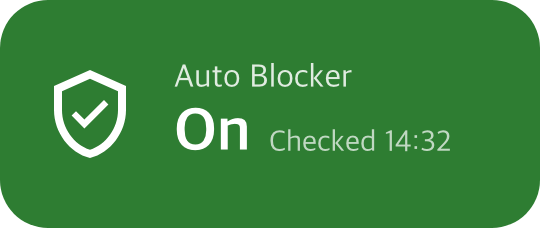
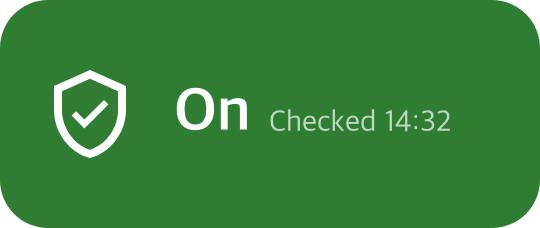
v0.08.05.00: resizable widget without title, color and monochrome styles, widget settings screen

Changed region(s): [[0.3259, 0.2763, 0.6519, 0.6754], [0.5037, 0.4605, 0.8296, 0.6754]]

diff --git a/src/com/gml/autoblocker/AutoBlockerWidget.java b/src/com/gml/autoblocker/AutoBlockerWidget.java
@@ -7,12 +7,17 @@ import android.content.ComponentName;
 import android.content.Context;
 import android.content.Intent;
 import android.content.SharedPreferences;
+import android.os.Build;
+import android.os.Bundle;
+import android.util.ArrayMap;
+import android.util.SizeF;
 import android.view.View;
 import android.widget.RemoteViews;
 
 import java.text.SimpleDateFormat;
 import java.util.Date;
 import java.util.Locale;
+import java.util.Map;
 
 /**
  * 상태는 rampart 설정 화면에서 접근성 서비스가 마지막으로 본 값의 캐시다.
@@ -23,6 +28,11 @@ public class AutoBlockerWidget extends AppWidgetProvider {
     static final String STATE_PREFS = "state";
     static final String LAST_STATE = "lastKnownState";
     static final String LAST_AT = "lastKnownAt";
+    static final String STYLE_PREFS = "widget_style";
+    static final int STYLE_COLOR = 0;
+    static final int STYLE_MONO = 1;
+    /** 이 폭(dp)보다 좁으면 아이콘만 보인다. 2칸 기본 minWidth 와 같다. */
+    private static final float SMALL_MAX_DP = 110f;
 
     static void saveState(Context ctx, boolean on) {
         ctx.getSharedPreferences(STATE_PREFS, Context.MODE_PRIVATE).edit()
@@ -54,9 +64,54 @@ public class AutoBlockerWidget extends AppWidgetProvider {
         if (ids.length > 0) render(ctx, mgr, ids);
     }
 
-    private static void render(Context ctx, AppWidgetManager mgr, int[] ids) {
+    @Override
+    public void onAppWidgetOptionsChanged(Context ctx, AppWidgetManager mgr, int id, Bundle options) {
+        render(ctx, mgr, new int[] { id });
+    }
+
+    /** 위젯을 지우면 그 id 의 스타일 저장값도 지운다. */
+    @Override
+    public void onDeleted(Context ctx, int[] ids) {
+        SharedPreferences.Editor e = ctx.getSharedPreferences(STYLE_PREFS, Context.MODE_PRIVATE).edit();
+        for (int id : ids) e.remove(styleKey(id));
+        e.commit();
+    }
+
+    static String styleKey(int id) {
+        return "style_" + id;
+    }
+
+    /** 저장값이 없으면 STYLE_COLOR. */
+    static int style(Context ctx, int id) {
+        return ctx.getSharedPreferences(STYLE_PREFS, Context.MODE_PRIVATE).getInt(styleKey(id), STYLE_COLOR);
+    }
+
+    static void saveStyle(Context ctx, int id, int style) {
+        ctx.getSharedPreferences(STYLE_PREFS, Context.MODE_PRIVATE).edit().putInt(styleKey(id), style).commit();
+    }
+
+    static void render(Context ctx, AppWidgetManager mgr, int[] ids) {
+        for (int id : ids) {
+            RemoteViews full = build(ctx, R.layout.widget, id);
+            RemoteViews rv;
+            if (Build.VERSION.SDK_INT >= Build.VERSION_CODES.S) {
+                // 런처가 위젯 크기에 맞는 쪽을 고른다(dp). 좁으면 아이콘만.
+                Map<SizeF, RemoteViews> m = new ArrayMap<>();
+                m.put(new SizeF(40f, 40f), build(ctx, R.layout.widget_small, id));
+                m.put(new SizeF(SMALL_MAX_DP, 40f), full);
+                rv = new RemoteViews(m);
+            } else {
+                int w = mgr.getAppWidgetOptions(id).getInt(AppWidgetManager.OPTION_APPWIDGET_MIN_WIDTH);
+                rv = (w > 0 && w < SMALL_MAX_DP) ? build(ctx, R.layout.widget_small, id) : full;
+            }
+            mgr.updateAppWidget(id, rv);
+        }
+    }
+
+    private static RemoteViews build(Context ctx, int layout, int id) {
         // 런처가 레이아웃 문자열을 시스템 로캘로 풀지 않도록 문구는 모두 앱 언어 Context 로 넣는다.
         Context loc = LocaleHelper.wrap(ctx.getApplicationContext());
+        boolean mono = style(ctx, id) == STYLE_MONO;
         int state = cached(ctx);
         int text, bg, icon;
         switch (state) {
@@ -64,24 +119,26 @@ public class AutoBlockerWidget extends AppWidgetProvider {
             case 0: text = R.string.state_off; bg = R.drawable.bg_off; icon = R.drawable.ic_shield_off; break;
             default: text = R.string.state_unknown; bg = R.drawable.bg_unknown; icon = R.drawable.ic_shield_unknown; break;
         }
+        if (mono) bg = R.drawable.bg_mono;
         Intent i = new Intent(ctx, TrampolineActivity.class);
         PendingIntent pi = PendingIntent.getActivity(ctx, 0, i, PendingIntent.FLAG_IMMUTABLE);
-        RemoteViews rv = new RemoteViews(ctx.getPackageName(), R.layout.widget);
+        RemoteViews rv = new RemoteViews(ctx.getPackageName(), layout);
         String stateText = loc.getString(text);
-        rv.setTextViewText(R.id.title, loc.getString(R.string.widget_title));
-        rv.setTextViewText(R.id.label, stateText);
         rv.setImageViewResource(R.id.icon, icon);
         rv.setInt(R.id.root, "setBackgroundResource", bg);
-        long at = ctx.getSharedPreferences(STATE_PREFS, Context.MODE_PRIVATE).getLong(LAST_AT, 0);
-        if (state >= 0 && at > 0) {
-            String hhmm = new SimpleDateFormat("HH:mm", Locale.KOREA).format(new Date(at));
-            rv.setTextViewText(R.id.checked_at, loc.getString(R.string.checked_at, hhmm));
-            rv.setViewVisibility(R.id.checked_at, View.VISIBLE);
-        } else {
-            rv.setViewVisibility(R.id.checked_at, View.GONE);
+        if (layout == R.layout.widget) {
+            rv.setTextViewText(R.id.label, stateText);
+            long at = ctx.getSharedPreferences(STATE_PREFS, Context.MODE_PRIVATE).getLong(LAST_AT, 0);
+            if (state >= 0 && at > 0) {
+                String hhmm = new SimpleDateFormat("HH:mm", Locale.KOREA).format(new Date(at));
+                rv.setTextViewText(R.id.checked_at, loc.getString(R.string.checked_at, hhmm));
+                rv.setViewVisibility(R.id.checked_at, View.VISIBLE);
+            } else {
+                rv.setViewVisibility(R.id.checked_at, View.GONE);
+            }
         }
         rv.setContentDescription(R.id.root, loc.getString(R.string.desc_fmt, stateText));
         rv.setOnClickPendingIntent(R.id.root, pi);
-        mgr.updateAppWidget(ids, rv);
+        return rv;
     }
 }

diff --git a/src/com/gml/autoblocker/WidgetConfigActivity.java b/src/com/gml/autoblocker/WidgetConfigActivity.java
@@ -1,0 +1,49 @@
+package com.gml.autoblocker;
+
+import android.app.Activity;
+import android.appwidget.AppWidgetManager;
+import android.appwidget.AppWidgetProviderInfo;
+import android.content.Context;
+import android.content.Intent;
+import android.os.Bundle;
+import android.widget.RadioGroup;
+
+/**
+ * 위젯별 스타일(컬러 또는 모노톤) 설정. 런처가 위젯을 놓을 때나 길게 눌러 다시 설정할 때 연다.
+ * 외부에서 열리므로 받은 id 가 이 앱 위젯일 때만 다룬다.
+ */
+public class WidgetConfigActivity extends Activity {
+    private int id = AppWidgetManager.INVALID_APPWIDGET_ID;
+
+    @Override
+    protected void attachBaseContext(Context base) {
+        super.attachBaseContext(LocaleHelper.wrap(base));
+    }
+
+    @Override
+    protected void onCreate(Bundle state) {
+        super.onCreate(state);
+        // 뒤로 가기나 검증 실패는 취소로 끝난다.
+        setResult(RESULT_CANCELED);
+        Bundle extras = getIntent().getExtras();
+        if (extras != null) id = extras.getInt(AppWidgetManager.EXTRA_APPWIDGET_ID, AppWidgetManager.INVALID_APPWIDGET_ID);
+        final AppWidgetManager mgr = AppWidgetManager.getInstance(this);
+        AppWidgetProviderInfo info = id == AppWidgetManager.INVALID_APPWIDGET_ID ? null : mgr.getAppWidgetInfo(id);
+        if (info == null || info.provider == null || !getPackageName().equals(info.provider.getPackageName())) {
+            finish();
+            return;
+        }
+        setContentView(R.layout.activity_widget_config);
+        final RadioGroup group = (RadioGroup) findViewById(R.id.style_group);
+        group.check(AutoBlockerWidget.style(this, id) == AutoBlockerWidget.STYLE_MONO
+                ? R.id.style_mono : R.id.style_color);
+        findViewById(R.id.btn_save).setOnClickListener(v -> {
+            int style = group.getCheckedRadioButtonId() == R.id.style_mono
+                    ? AutoBlockerWidget.STYLE_MONO : AutoBlockerWidget.STYLE_COLOR;
+            AutoBlockerWidget.saveStyle(this, id, style);
+            AutoBlockerWidget.render(this, mgr, new int[] { id });
+            setResult(RESULT_OK, new Intent().putExtra(AppWidgetManager.EXTRA_APPWIDGET_ID, id));
+            finish();
+        });
+    }
+}

diff --git a/docs/guide.ko.md b/docs/guide.ko.md
@@ -9,18 +9,20 @@
 ## 위젯 상태
 
 <p align="center">
-  <img src="widget_states.png" alt="2x1 위젯 세 개가 나란히 있다. 초록 켜짐, 호박색 꺼짐, 슬레이트색 상태 미확인." width="600">
+  <img src="widget_states.png" alt="ShieldTap 아이콘과 이름 아래 2x1 위젯이 세 개씩 두 줄 있다. 컬러 줄은 초록 켜짐, 호박색 꺼짐, 슬레이트색 상태 미확인. 모노톤 줄은 같은 세 상태가 같은 회색 바탕이다. 위젯마다 방패 아이콘이 있다." width="600">
 </p>
 
 | 상태 | 배경 | 표시 |
 |---|---|---|
-| 켜짐 | 초록 | `보안 위험 자동 차단` / `켜짐` `HH:mm 확인` |
-| 꺼짐 | 호박색 | `보안 위험 자동 차단` / `꺼짐` `HH:mm 확인` |
-| 미확인 | 슬레이트 | `보안 위험 자동 차단` / `상태 미확인` |
+| 켜짐 | 초록 | `켜짐` `HH:mm 확인` |
+| 꺼짐 | 호박색 | `꺼짐` `HH:mm 확인` |
+| 미확인 | 슬레이트 | `상태 미확인` |
 
-`HH:mm 확인` 은 마지막으로 스위치 상태를 읽은 시각입니다. 미확인 상태에는 붙지 않습니다.
+`HH:mm 확인` 은 마지막으로 스위치 상태를 읽은 시각입니다. 미확인 상태에는 붙지 않습니다. 위젯에는 제목 줄이 없습니다. 방패 아이콘과 상태만으로 무엇을 켜고 끄는지 보입니다.
 
-이미지는 실제 화면 캡처가 아니라 `res/layout/widget.xml` 과 drawable 정의를 그대로 옮겨 그린 미리보기입니다. 그림은 영어 UI 기준이고 한국어 폰에서는 `보안 위험 자동 차단` / `켜짐` 처럼 표시됩니다. 실제 위젯의 크기, 모서리, 글꼴은 런처와 기기에 따라 조금 다릅니다.
+위젯 크기는 조절할 수 있습니다. 한 칸 정도로 좁히면 방패 아이콘만 보입니다. 스타일은 위젯마다 컬러(윗줄)와 모노톤(아랫줄) 중에서 고릅니다. 모노톤은 세 상태 모두 같은 회색 바탕이고 방패 아이콘과 글자로만 구분합니다. 위젯을 길게 누르고 위젯 설정을 열면 바꿀 수 있습니다.
+
+이미지는 실제 화면 캡처가 아니라 `res/layout/widget.xml` 과 drawable 정의를 그대로 옮겨 그린 미리보기입니다. 그림은 영어 UI 기준이고 한국어 폰에서는 `켜짐` 처럼 표시됩니다. 실제 위젯의 크기, 모서리, 글꼴은 런처와 기기에 따라 조금 다릅니다.
 
 ## 호환성
 
@@ -112,7 +114,7 @@ sequenceDiagram
 | 확인 항목 | 근거 |
 |---|---|
 | 요청 권한 없음 (인터넷 포함) | `AndroidManifest.xml` 에 `uses-permission` 0건 |
-| 위젯, 트램펄린, 접근성 서비스 외부 비공개 | `AndroidManifest.xml:29`, `:41`, `:48` 의 `android:exported="false"`. 앱 서랍에서 열리는 안내 화면(`MainActivity`, `:19`)만 런처 실행을 위해 공개 |
+| 위젯, 트램펄린, 접근성 서비스 외부 비공개 | `AndroidManifest.xml:29`, `:52`, `:59` 의 `android:exported="false"`. 공개는 화면 두 개뿐. 앱 서랍에서 열리는 안내 화면(`MainActivity`, `:19`)은 런처 실행용. 위젯 스타일 화면(`WidgetConfigActivity`, `:42`)은 위젯을 놓거나 다시 설정할 때 런처가 여는 용도이고 이 앱 위젯 id 가 아니면 바로 닫힘 |
 | 다른 앱 조회는 Play 스토어 하나 | `AndroidManifest.xml:6-8` 의 `<queries>` 에 `com.android.vending` 만 선언. 권한이 아니며 Play 프로텍트 설정 화면을 못 열 때 Play 스토어를 여는 대체 경로용 |
 | 접근성 이벤트를 rampart 패키지로 한정 | `res/xml/accessibility_service_config.xml:3` 의 `android:packageNames` |
 | 백업 비활성 | `AndroidManifest.xml:14` 의 `android:allowBackup="false"` |

diff --git a/docs/guide.md b/docs/guide.md
@@ -9,16 +9,18 @@ Back to the [README](../README.md). This guide holds the details the README link
 ## Widget states
 
 <p align="center">
-  <img src="widget_states.png" alt="Three 2x1 widgets side by side: green Auto Blocker On, amber Auto Blocker Off, and slate Auto Blocker Unknown." width="600">
+  <img src="widget_states.png" alt="The ShieldTap icon and name above two rows of three 2x1 widgets. The Color row shows green On, amber Off and slate Unknown. The Monochrome row shows the same three states on one gray background. Each widget has a shield icon." width="600">
 </p>
 
 | State | Background | Shows (English UI) |
 |---|---|---|
-| On | Green | `Auto Blocker` / `On` `Checked HH:mm` |
-| Off | Amber | `Auto Blocker` / `Off` `Checked HH:mm` |
-| Unknown | Slate | `Auto Blocker` / `Unknown` |
+| On | Green | `On` `Checked HH:mm` |
+| Off | Amber | `Off` `Checked HH:mm` |
+| Unknown | Slate | `Unknown` |
 
-`Checked HH:mm` is the time the switch state was last read. It is not shown in the unknown state.
+`Checked HH:mm` is the time the switch state was last read. It is not shown in the unknown state. The widget has no title line; the shield icon and the state say what it controls.
+
+The widget can be resized. At about one cell wide it shows only the shield icon. Each widget has its own style: Color (top row) or Monochrome (bottom row), where all three states share one gray background and differ only by the shield icon and the text. Touch and hold the widget and open its settings to switch styles.
 
 The image is not a screenshot. It is a preview drawn from `res/layout/widget.xml` and the drawable definitions, with the English strings. The real widget size, corners and font vary a little by launcher and device.
 
@@ -112,7 +114,7 @@ sequenceDiagram
 | Check | Evidence |
 |---|---|
 | No requested permissions (including internet) | 0 `uses-permission` entries in `AndroidManifest.xml` |
-| Widget, trampoline and accessibility service are not exported | `android:exported="false"` at `AndroidManifest.xml:29`, `:41` and `:48`. Only the setup screen opened from the app drawer (`MainActivity`, `:19`) is exported so the launcher can start it |
+| Widget, trampoline and accessibility service are not exported | `android:exported="false"` at `AndroidManifest.xml:29`, `:52` and `:59`. Two activities are exported. The setup screen opened from the app drawer (`MainActivity`, `:19`) is exported so the launcher can start it. The widget style screen (`WidgetConfigActivity`, `:42`) is exported so the launcher can open it when you place or reconfigure the widget. It accepts only widget IDs that belong to ShieldTap and closes for any other ID |
 | Only one other app is queried: the Play Store | `<queries>` at `AndroidManifest.xml:6-8` declares only `com.android.vending`. This is not a permission. It is the fallback path that opens the Play Store when the Play Protect settings screen cannot be opened |
 | Accessibility events limited to the rampart package | `android:packageNames` at `res/xml/accessibility_service_config.xml:3` |
 | Backup disabled | `android:allowBackup="false"` at `AndroidManifest.xml:14` |

diff --git a/README.ko.md b/README.ko.md
@@ -26,10 +26,10 @@
 ---
 
 <p align="center">
-  <img src="docs/widget_states.png" width="600" alt="2x1 위젯 세 개가 나란히 있다. 초록 켜짐, 호박색 꺼짐, 슬레이트색 상태 미확인.">
+  <img src="docs/widget_states.png" width="600" alt="ShieldTap 아이콘과 이름 아래 2x1 위젯이 세 개씩 두 줄 있다. 컬러 줄은 초록 켜짐, 호박색 꺼짐, 슬레이트색 상태 미확인. 모노톤 줄은 같은 세 상태가 같은 회색 바탕이다. 위젯마다 방패 아이콘이 있다.">
 </p>
 
-<p align="center"><sub>위젯의 세 상태(켜짐, 꺼짐, 미확인) · 기기 캡처가 아니라 앱 레이아웃과 영어 문구로 그린 미리보기 · 한국어 폰에서는 <code>보안 위험 자동 차단</code> / <code>켜짐</code> 처럼 보입니다</sub></p>
+<p align="center"><sub>위젯의 세 상태(켜짐, 꺼짐, 미확인) · 기기 캡처가 아니라 앱 레이아웃과 영어 문구로 그린 미리보기 · 한국어 폰에서는 <code>켜짐</code> 처럼 보입니다</sub></p>
 
 **홈 화면에서 탭 한 번으로 보안 위험 자동 차단을 켜고 끕니다.**
 
@@ -64,7 +64,8 @@
 
 <p align="center"><sub>그림은 기기 캡처가 아니라 앱 문구와 레이아웃으로 다시 그린 영어 화면입니다. 한국어 폰에서는 같은 자리에 한국어 문구가 나옵니다.</sub></p>
 
-- **탭 한 번으로 전환.** 켜짐은 초록, 꺼짐은 호박색이고 상태를 마지막으로 읽은 시각이 함께 나옵니다. [위젯 상태 →](docs/guide.ko.md#위젯-상태)
+- **탭 한 번으로 전환.** 컬러 스타일에서 켜짐은 초록, 꺼짐은 호박색이고 상태를 마지막으로 읽은 시각이 함께 나옵니다. [위젯 상태 →](docs/guide.ko.md#위젯-상태)
+- **크기 조절과 두 가지 스타일.** 한 칸까지 줄이면 방패 아이콘만 보입니다. 위젯을 길게 눌러 설정을 열면 위젯마다 컬러와 모노톤 중에서 고를 수 있습니다. [위젯 상태 →](docs/guide.ko.md#위젯-상태)
 - **권한 0개.** 매니페스트에 인터넷을 포함해 `uses-permission` 이 하나도 없습니다. 어떤 데이터도 폰 밖으로 나가지 않습니다. [보안 메모 →](docs/guide.ko.md#보안-메모)
 - **화면 하나만 봅니다.** 접근성 서비스는 보안 위험 자동 차단 시스템 앱의 이벤트만 받습니다. 위젯이나 설정 안내의 `보안 위험 자동 차단 켜기` 버튼을 누른 뒤 5초 안에만 탭합니다. [동작 원리 →](docs/guide.ko.md#동작-원리)
 - **인증은 그대로.** 끌 때 뜨는 지문 또는 비밀번호 인증은 사용자가 직접 통과합니다.

diff --git a/README.md b/README.md
@@ -26,7 +26,7 @@
 ---
 
 <p align="center">
-  <img src="docs/widget_states.png" width="600" alt="Three 2x1 widgets side by side: green Auto Blocker On, amber Auto Blocker Off, and slate Auto Blocker Unknown.">
+  <img src="docs/widget_states.png" width="600" alt="The ShieldTap icon and name above two rows of three 2x1 widgets. The Color row shows green On, amber Off and slate Unknown. The Monochrome row shows the same three states on one gray background. Each widget has a shield icon.">
 </p>
 
 <p align="center"><sub>The widget in its three states: on, off and unknown · a preview drawn from the app layout and English strings, not a device screenshot</sub></p>
@@ -64,7 +64,8 @@ Auto Blocker keeps a Galaxy phone safer, but sideloading an APK or using wireles
 
 <p align="center"><sub>Each image is the setup screen redrawn from the app strings and layout, not a device capture.</sub></p>
 
-- **Switches with one tap.** The widget turns green for on and amber for off, with the time the state was last read. [Widget states →](docs/guide.md#widget-states)
+- **Switches with one tap.** In the Color style the widget turns green for on and amber for off, with the time the state was last read. [Widget states →](docs/guide.md#widget-states)
+- **Resizes and comes in two styles.** The widget shrinks to just the shield icon at one cell, and touching and holding it opens settings where each widget can be Color or Monochrome. [Widget states →](docs/guide.md#widget-states)
 - **Runs with zero permissions.** The manifest has no `uses-permission` entry, including internet, so nothing leaves the phone. [Security notes →](docs/guide.md#security-notes)
 - **Watches one screen only.** The accessibility service receives events only from the Auto Blocker system app and taps only within 5 seconds after you tap the widget or the `Turn on Auto Blocker` button in setup. [How it works →](docs/guide.md#how-it-works)
 - **Keeps your own verification.** Turning Auto Blocker off still shows the fingerprint or PIN prompt, and you pass it yourself.
